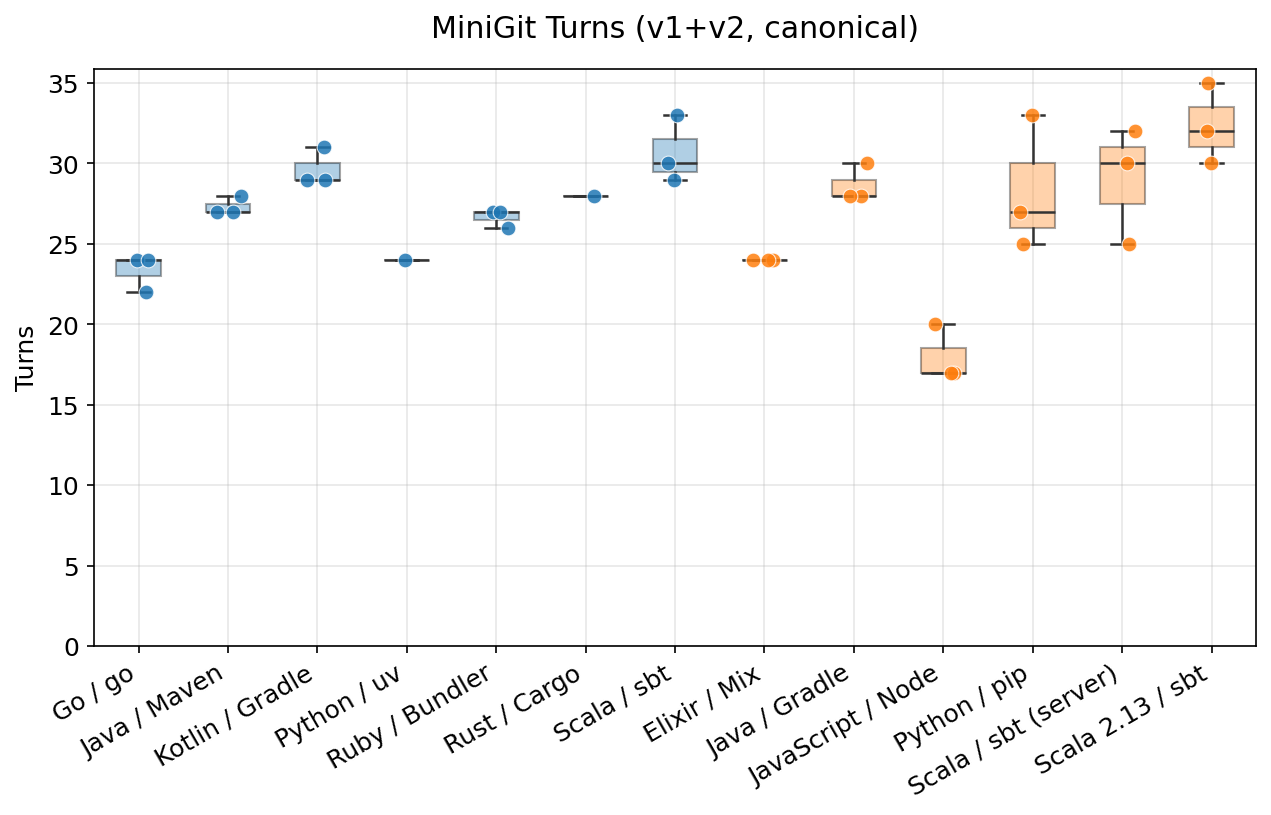
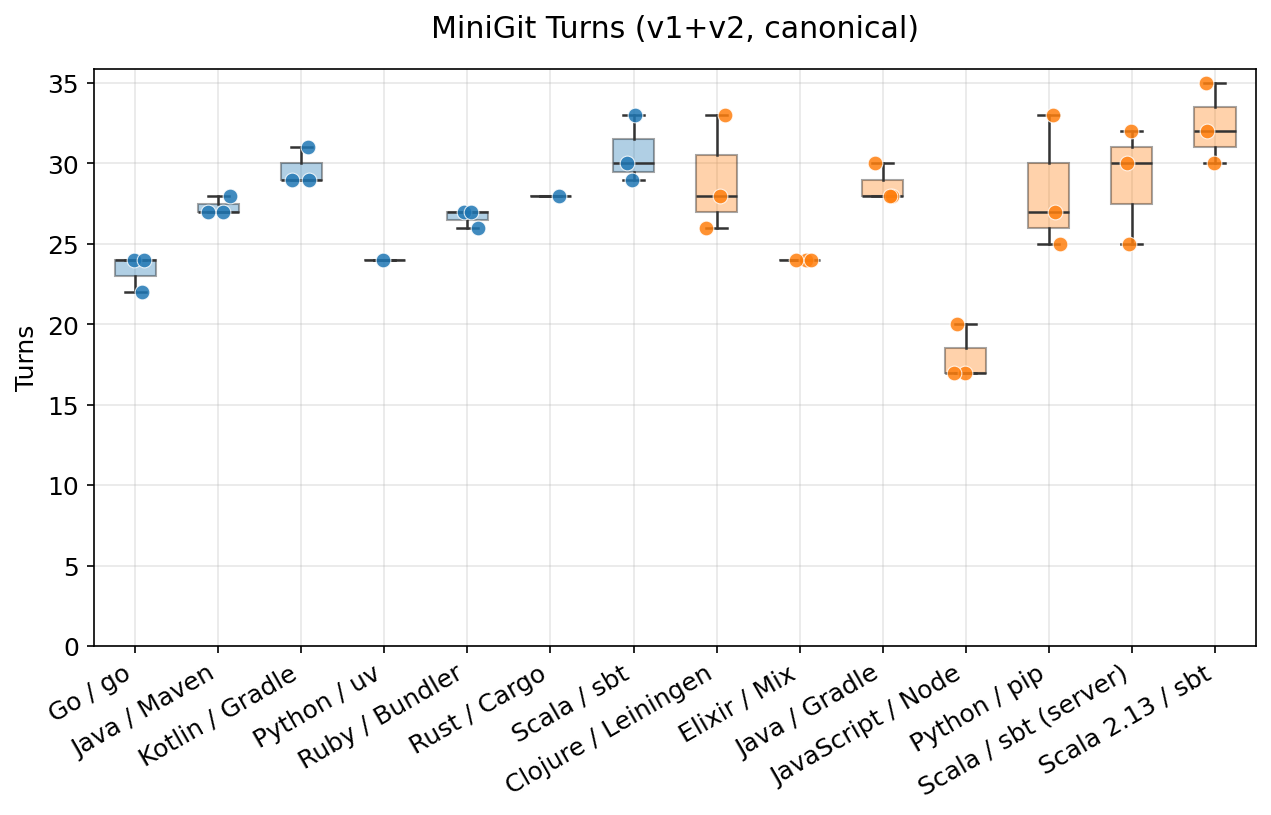
Add Clojure/Lein and Java/Gradle results; note Clojure AOT overhead
Clojure (392.8s ±54s): slower than Java/Maven despite fewer LOC (~230).
Key nuance: lein uberjar runs full AOT compilation per build cycle —
heavier than javac. Not a pure dynamic-vs-static data point.

Java/Gradle (342.3s ±80s): daemon helps setup (63s→2s) but not
per-cycle compilation. Higher LOC (328) also contributes.

diff --git a/README.md b/README.md
@@ -36,7 +36,11 @@ Each workflow was run **3 trials** (except Python/uv: 1 trial). All runs achieve
 | Kotlin / Gradle | 234.1s | ±9.9s | 264 | 88.7s | static |
 | Java / Maven | 272.6s | ±40.5s | 271 | 100.7s | static |
 | Scala 3 / sbt | 321.0s | ±42.6s | 256 | 125.4s | static |
+| Java / Gradle | 342.3s | ±80.0s | 328 | 104.4s | static |
 | Scala 2.13 / sbt | 379.4s | ±65.0s | 239 | 158.7s | static |
+| Clojure / Lein ⚠ | 392.8s | ±54.0s | 230 | 170.8s | dynamic (JVM) |
+
+> ⚠ **Clojure note:** The Clojure/Lein result should not be read as a pure "dynamic typing on JVM" data point. `lein uberjar` performs full AOT compilation (macro expansion → bytecode generation) on every build cycle, which is a heavier pipeline than `javac`. A REPL-driven workflow would likely produce very different numbers. The result reflects the overhead of Leiningen's uberjar packaging model, not Clojure's runtime characteristics alone.
 
 ### Key Findings
 
@@ -45,6 +49,8 @@ Go — a statically typed language with no runtime overhead — outperforms all 
 
 **2. Build-tool daemon lifetime matters within the JVM ecosystem.**
 Kotlin/Gradle benefits from Gradle's default 3-hour daemon lifetime, resulting in highly consistent timings (±9.9s). Scala/sbt with `--batch` mode (no server) shows higher variance (±42.6s). Disabling sbt's idle timeout (`serverIdleTimeout := None`) reduces variance but does not close the speed gap, suggesting the Scala 3 compiler throughput — not JVM startup cost — is the primary driver.
+
+Java/Gradle (342.3s ±80.0s) is slower than Java/Maven (272.6s ±40.5s) in agent time despite Gradle's daemon. The daemon dramatically reduces *setup* time (63.7s on first run → ~2s on subsequent runs), but does not help with per-cycle compilation overhead. The higher LOC (328 vs 271) also contributes to the difference.
 
 **3. Build tools matter less than the language runtime.**
 Python/uv and Python/pip produce nearly identical results (173.8s vs. 175.6s). Despite `uv` being a significantly faster package manager written in Rust, the speed advantage does not carry over to agent time. Python's performance reflects the language's fast iteration cycle, not the package manager.
@@ -66,7 +72,7 @@ Setup time is negligible for most workflows. The exception is Scala/sbt (≈7s s
 
 ## Status
 
-`results/` and `figures/` now contain canonical-track results for 10 workflows (see table above). The legacy greenfield results are preserved in the same `results.json` under `"track": "greenfield"` for continuity.
+`results/` and `figures/` now contain canonical-track results for 12 workflows (see table above). The legacy greenfield results are preserved in the same `results.json` under `"track": "greenfield"` for continuity.
 
 The benchmark harness separates:
 
